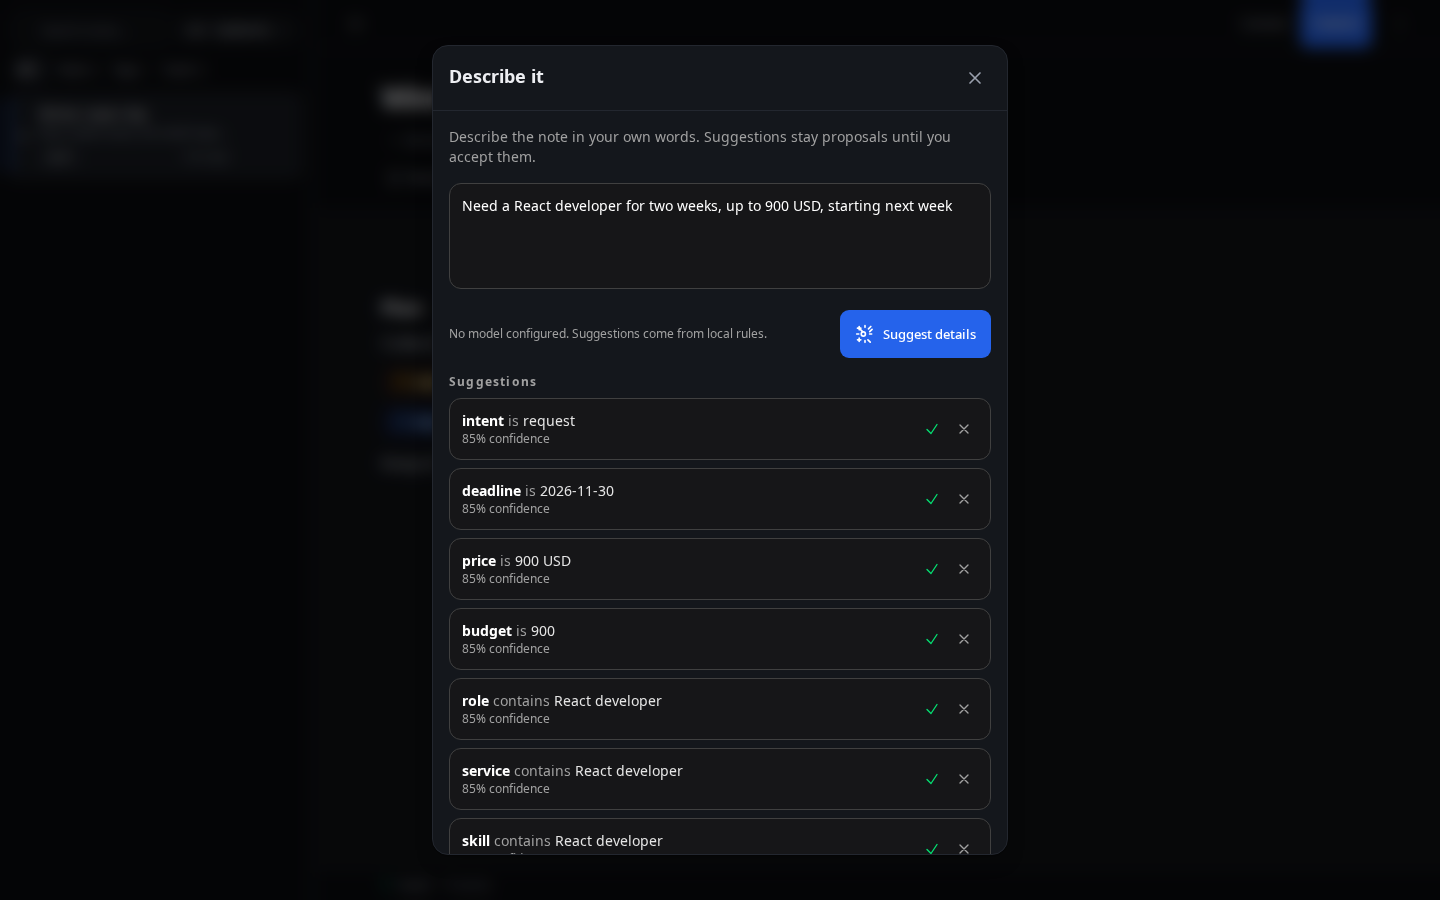
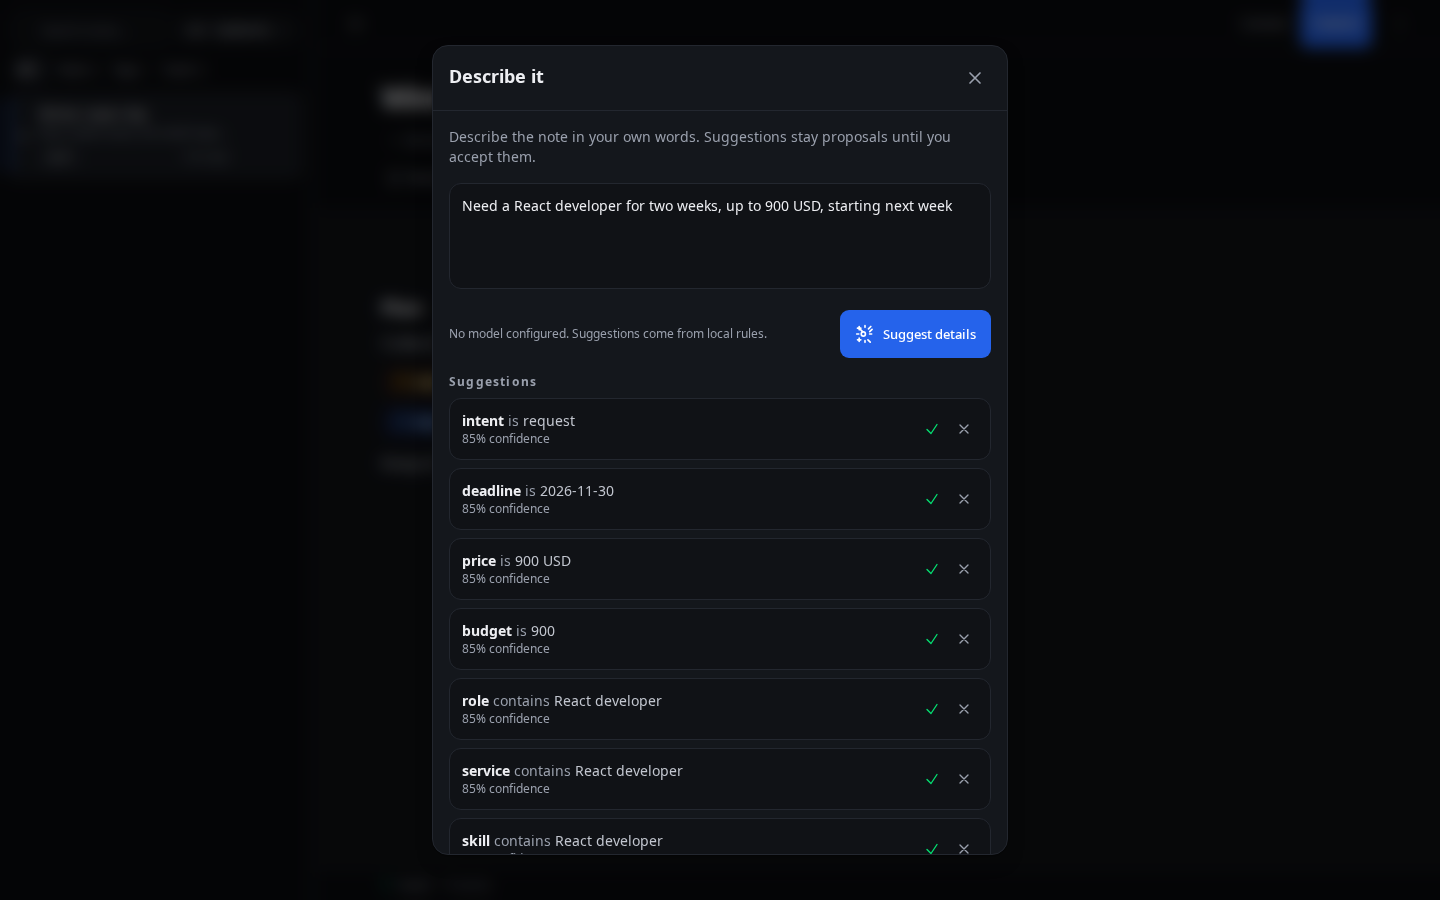
refactor(ui): put ontology nodes and describe-it on tokens
Nodes, privacy confirmation, describe-it, and automations carried
neutral, blue, and purple literals. They now use app tokens; green,
red, and yellow remain semantic.

Refresh settings/ontology and the editor group.

Changed region(s): [[0.4062, 0.84, 0.4688, 0.8711]]

diff --git a/ui/src/components/editor/DescribeItComposer.tsx b/ui/src/components/editor/DescribeItComposer.tsx
@@ -71,7 +71,7 @@ export function DescribeItComposer({isOpen, onClose, onApply, ontology, placehol
         <>
             <Modal isOpen={isOpen} onClose={handleClose} title="Describe it" className="max-w-xl">
                 <div className="space-y-4">
-                    <p className="text-sm text-neutral-400">
+                    <p className="text-sm text-[var(--app-muted)]">
                         Describe the note in your own words. Suggestions stay proposals until you accept them.
                     </p>
 
@@ -82,11 +82,11 @@ export function DescribeItComposer({isOpen, onClose, onApply, ontology, placehol
                         placeholder={placeholder ?? "e.g. I need a React developer for two weeks, up to 900 USD, starting next week"}
                         rows={4}
                         autoFocus={autoFocus}
-                        className="w-full rounded-xl border border-neutral-700 bg-neutral-900/70 p-3 text-sm text-white focus:outline-none focus:border-blue-500/50 resize-none"
+                        className="w-full rounded-xl border border-[var(--app-line)] bg-[var(--app-surface)] p-3 text-sm text-[var(--app-text)] focus:outline-none focus:border-[var(--app-accent-line)] resize-none"
                     />
 
                     <div className="flex items-center justify-between gap-3">
-                        <span className="text-xs text-neutral-400" data-testid="describe-it-source">
+                        <span className="text-xs text-[var(--app-muted)]" data-testid="describe-it-source">
                             {SOURCE_LABEL[providerKind] ?? providerName}
                         </span>
                         <Button
@@ -108,7 +108,7 @@ export function DescribeItComposer({isOpen, onClose, onApply, ontology, placehol
 
                     {proposals.length > 0 && (
                         <div className="space-y-2">
- <div className="text-xs font-bold tracking-widest text-neutral-400">Suggestions</div>
+ <div className="text-xs font-bold tracking-widest text-[var(--app-muted)]">Suggestions</div>
                             {proposals.map(proposal => (
                                 <div
                                     key={`${proposal.property.key}-${proposal.property.operator}-${proposal.property.values.join(',')}`}
@@ -116,16 +116,16 @@ export function DescribeItComposer({isOpen, onClose, onApply, ontology, placehol
                                     className={`flex items-center justify-between gap-3 rounded-xl border p-3 ${
                                         proposal.status === 'accepted'
                                             ? 'border-green-500/40 bg-green-500/10'
-                                            : 'border-neutral-700 bg-neutral-900/70'
+                                            : 'border-[var(--app-line)] bg-[var(--app-surface)]'
                                     }`}
                                 >
                                     <div className="min-w-0">
-                                        <div className="text-sm text-white">
+                                        <div className="text-sm text-[var(--app-text)]">
                                             <span className="font-semibold">{proposal.property.key}</span>
-                                            <span className="text-neutral-400"> {proposal.property.operator} </span>
-                                            <span className="text-neutral-200">{proposal.property.values.join(', ')}</span>
+                                            <span className="text-[var(--app-muted)]"> {proposal.property.operator} </span>
+                                            <span className="text-[var(--app-text-secondary)]">{proposal.property.values.join(', ')}</span>
                                         </div>
-                                        <div className="text-xs text-neutral-400">
+                                        <div className="text-xs text-[var(--app-muted)]">
                                             {Math.round(proposal.confidence * 100)}% confidence
                                         </div>
                                     </div>
@@ -144,7 +144,7 @@ export function DescribeItComposer({isOpen, onClose, onApply, ontology, placehol
                                             onClick={() => reject(proposal)}
                                             title={`Reject ${proposal.property.key}`}
                                             aria-label={`Reject ${proposal.property.key}`}
-                                            className="rounded-lg p-1.5 text-neutral-400 hover:bg-neutral-800 hover:text-neutral-300"
+                                            className="rounded-lg p-1.5 text-[var(--app-muted)] hover:bg-[var(--app-hover)] hover:text-[var(--app-text-secondary)]"
                                         >
                                             <XMarkIcon className="w-4 h-4"/>
                                         </button>
@@ -155,7 +155,7 @@ export function DescribeItComposer({isOpen, onClose, onApply, ontology, placehol
                     )}
 
                     {proposals.length === 0 && status === 'idle' && !error && (
-                        <div className="rounded-xl border border-dashed border-neutral-700 bg-neutral-900/40 p-4 text-center text-xs text-neutral-400">
+                        <div className="rounded-xl border border-dashed border-[var(--app-line)] bg-[var(--app-surface)] p-4 text-center text-xs text-[var(--app-muted)]">
                             No suggestions yet. Describe the note and ask for details.
                         </div>
                     )}

diff --git a/ui/src/components/ontology/OntologyNodeItem.tsx b/ui/src/components/ontology/OntologyNodeItem.tsx
@@ -32,7 +32,7 @@ export function OntologyNodeItem({
             {/* Tree connecting lines */}
             {level > 0 && (
                 <div
-                    className="absolute left-0 top-0 bottom-0 w-px bg-neutral-800"
+                    className="absolute left-0 top-0 bottom-0 w-px bg-[var(--app-line)]"
                     style={{ left: `${(level * 1.5) - 0.75}rem` }}
                 />
             )}
@@ -40,14 +40,14 @@ export function OntologyNodeItem({
             <div style={{ paddingLeft: `${level * 1.5}rem` }} className="relative">
                 {level > 0 && (
                     <div
-                        className="absolute left-0 top-3 w-3 h-px bg-neutral-800"
+                        className="absolute left-0 top-3 w-3 h-px bg-[var(--app-line)]"
                         style={{ left: `${(level * 1.5) - 0.75}rem` }}
                     />
                 )}
 
-                <div className="flex items-center py-1.5 group hover:bg-neutral-800/30 rounded-lg transition-colors pr-2 -ml-2 pl-2">
+                <div className="flex items-center py-1.5 group hover:bg-[var(--app-hover)] rounded-lg transition-colors pr-2 -ml-2 pl-2">
                     <div
-                        className={`flex items-center justify-center w-5 h-5 mr-2 rounded cursor-pointer transition-colors ${hasChildren ? 'hover:bg-neutral-700 text-neutral-400 hover:text-white' : ''}`}
+                        className={`flex items-center justify-center w-5 h-5 mr-2 rounded cursor-pointer transition-colors ${hasChildren ? 'hover:bg-[var(--app-hover)] text-[var(--app-muted)] hover:text-[var(--app-text)]' : ''}`}
                         onClick={() => hasChildren && setIsOpen(!isOpen)}
                     >
                         {hasChildren ? (
@@ -55,24 +55,24 @@ export function OntologyNodeItem({
                                 className={`h-3.5 w-3.5 transition-transform duration-200 ${isOpen ? 'rotate-0' : '-rotate-90'}`}
                             />
                         ) : (
-                            <div className="w-1.5 h-1.5 rounded-full bg-neutral-800" />
+                            <div className="w-1.5 h-1.5 rounded-full bg-[var(--app-line)]" />
                         )}
                     </div>
 
                     <div className="flex items-center flex-1 cursor-pointer" onClick={() => hasChildren && setIsOpen(!isOpen)}>
-                        <span className="font-semibold text-blue-300 group-hover:text-blue-200 transition-colors">
+                        <span className="font-semibold text-[var(--app-accent-text)] group-hover:text-[var(--app-accent-text)] transition-colors">
                             {node.label}
                         </span>
 
                         {tagCount > 0 && (
-                            <span className="ml-2 text-xs bg-neutral-800 text-neutral-400 px-1.5 py-0.5 rounded-full border border-neutral-700 font-mono"
+                            <span className="ml-2 text-xs bg-[var(--app-raised)] text-[var(--app-muted)] px-1.5 py-0.5 rounded-full border border-[var(--app-line)] font-mono"
                                   title="Usage count">
                                 {tagCount}
                             </span>
                         )}
 
                         {node.description && (
-                            <span className="ml-3 text-xs text-neutral-400 hidden md:inline group-hover:text-neutral-400 transition-colors">
+                            <span className="ml-3 text-xs text-[var(--app-muted)] hidden md:inline group-hover:text-[var(--app-muted)] transition-colors">
                                 {node.description}
                             </span>
                         )}
@@ -97,7 +97,7 @@ export function OntologyNodeItem({
                                     title="Delete Node"
                                     size="xs"
                                     variant="ghost"
-                                    className="text-neutral-400 hover:text-red-400 hover:bg-red-900/20"
+                                    className="text-[var(--app-muted)] hover:text-red-400 hover:bg-red-900/20"
                                 />
                             )}
                         </div>

diff --git a/ui/src/components/dashboard/AutomationsView.tsx b/ui/src/components/dashboard/AutomationsView.tsx
@@ -80,18 +80,18 @@ export function AutomationsView() {
     if (automationNotes.length === 0) {
         return (
             <div className="flex flex-col items-center justify-center h-full py-12 px-4 text-center">
-                <div className="w-16 h-16 rounded-full bg-blue-500/10 flex items-center justify-center mb-4">
-                    <svg className="w-8 h-8 text-blue-500" fill="none" viewBox="0 0 24 24" stroke="currentColor">
+                <div className="w-16 h-16 rounded-full bg-[var(--app-accent-soft)] flex items-center justify-center mb-4">
+                    <svg className="w-8 h-8 text-[var(--app-accent-text)]" fill="none" viewBox="0 0 24 24" stroke="currentColor">
                         <path strokeLinecap="round" strokeLinejoin="round" strokeWidth={2} d="M13 10V3L4 14h7v7l9-11h-7z" />
                     </svg>
                 </div>
-                <h3 className="text-lg font-medium text-neutral-100 mb-2">No Automations Yet</h3>
-                <p className="text-neutral-400 mb-6 max-w-sm">
-                    Create your first automation rule using <code className="text-blue-400">[@if:condition]</code> and <code className="text-green-400">[@then:action]</code> properties.
+                <h3 className="text-lg font-medium text-[var(--app-text)] mb-2">No Automations Yet</h3>
+                <p className="text-[var(--app-muted)] mb-6 max-w-sm">
+                    Create your first automation rule using <code className="text-[var(--app-accent-text)]">[@if:condition]</code> and <code className="text-green-400">[@then:action]</code> properties.
                 </p>
                 <button
                     onClick={handleCreateAutomation}
-                    className="px-4 py-2 bg-blue-500/20 text-blue-400 border border-blue-500/30 rounded-lg hover:bg-blue-500/30 transition-colors text-sm font-medium"
+                    className="px-4 py-2 bg-[var(--app-accent-soft)] text-[var(--app-accent-text)] border border-[var(--app-accent-line)] rounded-lg hover:bg-[var(--app-hover)] transition-colors text-sm font-medium"
                 >
                     Create Automation
                 </button>
@@ -103,12 +103,12 @@ export function AutomationsView() {
         <div className="flex flex-col h-full overflow-hidden">
             <div className="flex items-center justify-between mb-6">
                 <div>
-                    <h2 className="text-2xl font-bold text-neutral-100">Automations</h2>
-                    <p className="text-neutral-400 text-sm mt-1">{automationNotes.length} rule{automationNotes.length !== 1 ? 's' : ''} configured</p>
+                    <h2 className="text-2xl font-bold text-[var(--app-text)]">Automations</h2>
+                    <p className="text-[var(--app-muted)] text-sm mt-1">{automationNotes.length} rule{automationNotes.length !== 1 ? 's' : ''} configured</p>
                 </div>
                 <button
                     onClick={handleCreateAutomation}
-                    className="px-4 py-2 bg-blue-500/20 text-blue-400 border border-blue-500/30 rounded-lg hover:bg-blue-500/30 transition-colors text-sm font-medium flex items-center gap-2"
+                    className="px-4 py-2 bg-[var(--app-accent-soft)] text-[var(--app-accent-text)] border border-[var(--app-accent-line)] rounded-lg hover:bg-[var(--app-hover)] transition-colors text-sm font-medium flex items-center gap-2"
                 >
                     <svg className="w-4 h-4" fill="none" viewBox="0 0 24 24" stroke="currentColor">
                         <path strokeLinecap="round" strokeLinejoin="round" strokeWidth={2} d="M12 4v16m8-8H4" />

diff --git a/ui/src/components/modals/PrivacyConfirmModal.tsx b/ui/src/components/modals/PrivacyConfirmModal.tsx
@@ -54,16 +54,16 @@ export function PrivacyConfirmModal({
                 </div>
 
                 <div>
- <div className="text-xs font-bold tracking-widest text-neutral-400 mb-2">What will be shared</div>
-                    <div className="rounded-xl border border-neutral-700 bg-neutral-900/70 p-4 space-y-3">
-                        <div className="font-semibold text-white">{noteTitle || 'Untitled note'}</div>
-                        <p className="text-sm text-neutral-300 whitespace-pre-wrap max-h-40 overflow-y-auto custom-scrollbar">{preview?.body || 'No content'}</p>
+ <div className="text-xs font-bold tracking-widest text-[var(--app-muted)] mb-2">What will be shared</div>
+                    <div className="rounded-xl border border-[var(--app-line)] bg-[var(--app-surface)] p-4 space-y-3">
+                        <div className="font-semibold text-[var(--app-text)]">{noteTitle || 'Untitled note'}</div>
+                        <p className="text-sm text-[var(--app-text-secondary)] whitespace-pre-wrap max-h-40 overflow-y-auto custom-scrollbar">{preview?.body || 'No content'}</p>
                         <div className="flex flex-wrap gap-1.5">
                             {note?.tags.map(tag => (
-                                <span key={tag} className="rounded-full bg-blue-500/10 px-2 py-0.5 text-xs text-blue-300">#{tag}</span>
+                                <span key={tag} className="rounded-full bg-[var(--app-accent-soft)] px-2 py-0.5 text-xs text-[var(--app-accent-text)]">#{tag}</span>
                             ))}
                             {note?.properties.map(property => (
-                                <span key={`${property.key}-${property.values.join('-')}`} className="rounded-full bg-purple-500/10 px-2 py-0.5 text-xs text-purple-200">
+                                <span key={`${property.key}-${property.values.join('-')}`} className="rounded-full bg-[var(--app-accent-soft)] px-2 py-0.5 text-xs text-[var(--app-accent-text)]">
                                     {property.key} {property.operator} {property.values.join(', ')}
                                 </span>
                             ))}
@@ -71,9 +71,9 @@ export function PrivacyConfirmModal({
                     </div>
                 </div>
 
-                <details className="rounded-xl border border-neutral-700/60 bg-neutral-900/50">
-                    <summary className="cursor-pointer px-4 py-3 text-sm font-medium text-neutral-400 select-none">Raw event</summary>
-                    <pre className="max-h-56 overflow-auto border-t border-neutral-800 p-4 text-xs text-neutral-400 custom-scrollbar">{JSON.stringify(preview?.raw ?? {}, null, 2)}</pre>
+                <details className="rounded-xl border border-[var(--app-line)] bg-[var(--app-surface)]">
+                    <summary className="cursor-pointer px-4 py-3 text-sm font-medium text-[var(--app-muted)] select-none">Raw event</summary>
+                    <pre className="max-h-56 overflow-auto border-t border-[var(--app-line)] p-4 text-xs text-[var(--app-muted)] custom-scrollbar">{JSON.stringify(preview?.raw ?? {}, null, 2)}</pre>
                 </details>
 
                 <div className="flex justify-end gap-3 pt-1">

diff --git a/TODO31.md b/TODO31.md
@@ -52,18 +52,20 @@ No workstream is open. This pass landed three follow-ups:
 - Ontology alias, attribute, and conflict surfaces are on tokens, as are empty
   states and the language selector; `notes/empty` and the suggestions empty
   state are recaptured.
+- Ontology nodes, privacy confirmation, describe-it, and automations are on
+  tokens; `settings/ontology` and the editor group are recaptured.
 - `RelatedNotesPanel`, the root `SuggestionItem`, and `ExtractionReview` (with
   its test block) are deleted; no references remained.
 
 The remaining items are follow-ups, in value order:
 
 1. **Tone outside settings** — settings, the header, the help dialog, the
-   ontology dialogs, the property editor, agent status, empty states, and the
-   language selector are on tokens. Literal `neutral-*`, `blue-*`, and
-   `purple-*` remain in dashboard (`LocalMatchPreview`, `QuickCapture`,
-   `AutomationsView`), properties (`NicheSelectors`, `propertyUtils`),
-   `OntologyNodeItem`, `PrivacyConfirmModal`, and `DescribeItComposer`.
-   Route them when each surface is touched; keep semantic category colors in
+   ontology graph and dialogs, the property editor, agent status, empty states,
+   the language selector, privacy confirmation, describe-it, and automations
+   are on tokens. Literal `neutral-*`, `blue-*`, and `purple-*` remain in
+   dashboard (`LocalMatchPreview`, `QuickCapture`), properties
+   (`NicheSelectors`, `propertyUtils`), and the metaphor plugin. Route them
+   when each surface is touched; keep semantic category colors in
    `PropertyBlock` unless the category axis is replaced.
 2. **W31.0 extraction** — extract `ListRow`, `Field`, and `ContextPanel` only
    where a second use exists. `KitGallery` is the gallery entry when another
